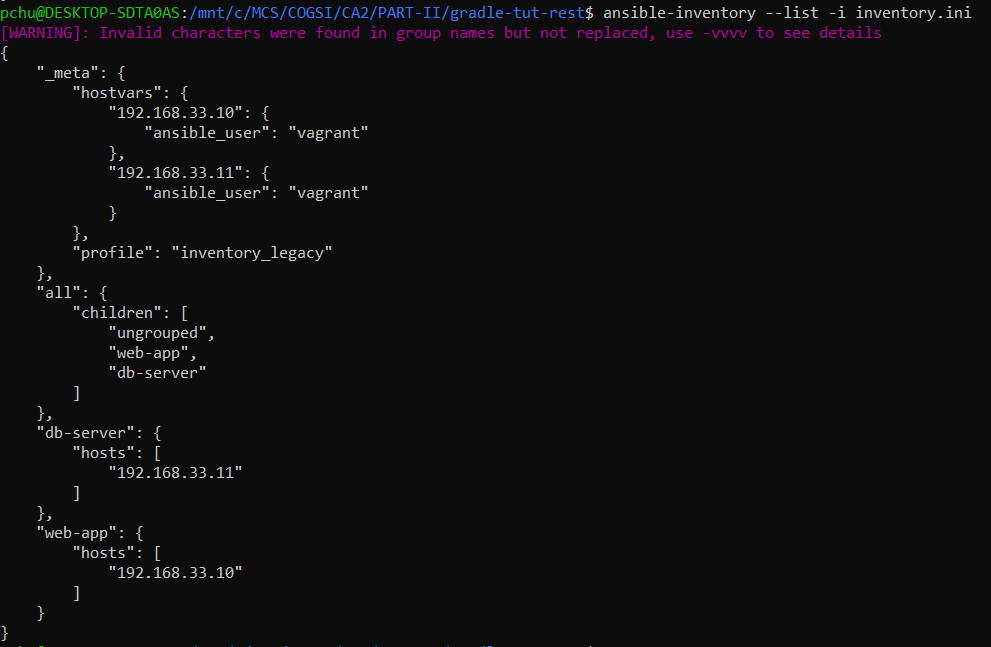
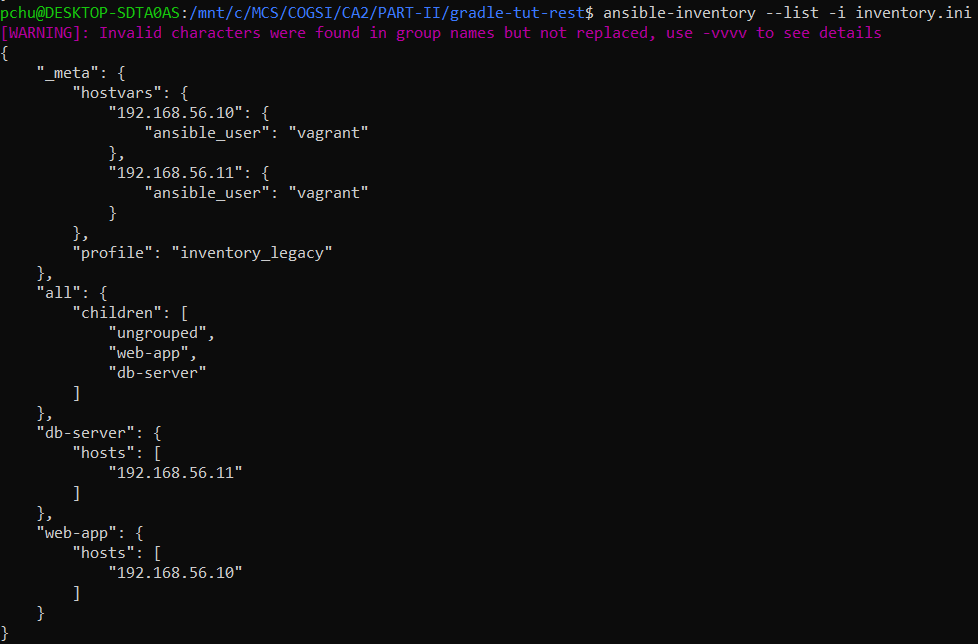
CA4: Enforce strong password policies; Verify inventory configuration; Manage groups and users; Missing health-check and README.md w/ alternative technologies

diff --git a/CA4/README.md b/CA4/README.md
@@ -1,39 +1,119 @@
 # CA4 - Configuration Management
-The goal for this class assignment is to install Ansible and provision both the VMs (`web-app` and `db-server`) that 
-were created during CA3. You should keep your playbooks idempotent.
+The goal of this assignment is to **install Ansible** and use it to **provision the two VMs** (`web-app` and 
+`db-server`) that were created in CA3. All playbooks should be **idempotent**, ensuring that running them multiple times 
+maintains the desired system state without unintended changes.
 
-You'll use Ansible to enforce complex password policies using PAM (with `libpam-pwquality`). To finish CA4, you'll 
-create groups and users using Ansible.
+In this assignment, you will:
+- Use Ansible to **enforce complex password policies** on the VMs using **PAM** with `libpam-pwquality`.
+- **Create user groups and accounts** on the VMs through Ansible.
+
+By completing this assignment, you will gain hands-on experience in using Ansible for system configuration, security 
+enforcement, and user management, while applying best practices for repeatable and maintainable infrastructure 
+automation.
 
 ## Install Ansible
 Ansible is an open-source automation tool designed for configuration management, application deployment, and IT 
-orchestration, enabling infrastructure as code. Ansible is an agentless, and it only needs to be installed on a single 
-host (referred to as the control node). From the control node, Ansible can manage an entire fleet of machines and other 
-devices (referred to as managed nodes) remotely with SSH, Powershell remoting, and numerous other transports, all from a 
-simple command-line interface with no databases or daemons required.
+orchestration. It enables **infrastructure as code**, allowing you to define and manage your IT environment 
+programmatically. 
 
-For your control node (the machine that runs Ansible), you can use nearly any UNIX-like machine with Python installed. 
-This includes Red Hat, Debian, Ubuntu, macOS, BSDs, and Windows under a Windows Subsystem for Linux (WSL) distribution. 
-Windows without WSL is not natively supported as a control node.
+Unlike much automation tool, Ansible is an agentless. You only need to install it on a single machine, called the 
+control node, which can manage multiple machines or devices (managed nodes) remotely using SSH, Powershell remoting, or 
+other supported protocols. Ansible operate from a simple command-line interface and does not require daemons or 
+databases.
 
-Ansible uses YAML-based playbooks to define automation workflows, making its configuration language human-readable and 
-easy to learn, even for those without extensive programming experience. These playbooks are idempotent, ensuring that 
-running them multiple times results in the same desired state without unintended side effects. The tool supports a wide 
-range of environments, including bare metal, virtual machines, cloud platforms, and hybrid infrastructures.
+### Control Node requirements
+Your control node can be any UNIX-like machine with Python installed, including:
+- Red Hat;
+- Debian;
+- Ubuntu;
+- macOS;
+- BSDs;
+- Windows under a Windows Subsystem for Linux (WSL) distribution
 
-You can install Ansible either by using `pipx` or using `pip`. We decided to use `pipx`, therefore, if you follow the 
-example below, you'll be able to successfully install Ansible.
+**NOTE**: Windows without WSL is not supported as a control node.
+
+### How Ansible Works
+Ansible uses YAML-based playbooks to define automation workflows. These playbooks are:
+- Human-readable and easy to learn, even for users without extensive programming experience.
+- Idempotent, meaning that running them multiple times ensures the system reaches the same desired state without 
+unintended changes.
+
+Ansible can manage a wide range of environments, including bare-metal servers, virtual machines, cloud platforms, and 
+hybrid infrastructures. 
+
+### Installing Ansible
+You can install Ansible using either `pip` or `pipx`. Using `pipx` is recommended as it **isolates Ansible and its 
+dependencies from your system Python environment**.
+
+Since we used `pipx`, bellow you'll find an example of the required steps to complete the installation:
 
 ```bash
+# Install pipx if not already installed
 sudo apt-get install pipx -y
+
+# Install Ansible with dependencies
 pipx install --include-deps ansible
+
+# Upgrade Ansible (optional)
 pipx upgrade --include-injected ansible
+
+# Enable shell completion for Ansible
 pipx inject --include-apps ansible argcomplete
 ```
 
-## Provision `web-app` and `db-server` VMs with Ansible
+After this, Ansible is ready to use, and you can start managing your infrastructure with playbooks.
 
-## Grant that `playbook.yaml` is idempotent
+## Provision `web-app` and `db-server` VMs with Ansible
+Before configuring your `playbook.yaml`, you need to **update the Vagrantfile from the previous class assignment** 
+(**CA3**). In the last CA, the VMs were provisioned using inline shell scripts. To switch to Ansible as the provisioner, 
+you can use the following approach:
+
+### Example Vagrantfile Changes
+Replace the old provisioning method entirely with Ansible for your `db-server` and `web-app` VMs, respectively. Take the 
+examples below as reference:
+
+```bash
+db.vm.provision "ansible" do |ansible|
+  ansible.playbook = "./playbook.yaml"
+  ansible.compatibility_mode = "2.0"
+end
+```
+
+```bash
+web.vm.provision "ansible" do |ansible|
+  ansible.playbook = "./playbook.yaml"
+  ansible.compatibility_mode = "2.0"
+end
+```
+
+### Explanation of Attributes
+- **ansible.playbook** – Specifies the playbook file that Ansible will use to provision the guest machines.
+- **ansible.compatibility_mode** – Ensures the Ansible provisioner generates an inventory file compatible with Ansible 
+2.0 and later versions.
+
+By making these changes, Vagrant will use Ansible to configure your VMs instead of the previous shell scripts, 
+streamlining your workflow and leveraging Ansible’s automation capabilities.
+
+## Ensuring your `playbook.yaml` is idempotent
+Your `playbook.yaml` should be **idempotent**. This means it can be executed **multiple times**, and each execution will 
+result in the same desired state as the initial run, without unintended changes or side effects.
+
+Most of Ansible’s core modules (like `user`, `group`, `apt`, `yum`, etc.) are **inherently idempotent**, automatically 
+checking the current system state before making changes.
+
+However, the `shell` and `command` modules **are not idempotent by default**, as they execute commands regardless of 
+the existing state. If you need to use these modules, you can ensure idempotency by adding conditions such as:
+- `creates` – Skip execution if a file or directory already exists.
+- `removes` – Skip execution if a file or directory has been removed.
+- `changed_when` – Explicitly control when a task should be considered “changed.”
+
+### Steps to Achieve an Idempotent Playbook
+
+1. Use core modules whenever possible.
+2. Check the current state before executing tasks with shell or command.
+3. Test your playbook multiple times on each VM to ensure it consistently reaches the same state.
+
+
 ### web-app
 #### first run
 ```bash
@@ -105,6 +185,7 @@ PLAY RECAP *********************************************************************
 web-app: ok=12   changed=3    unreachable=0    failed=0    skipped=3    rescued=0    
 ignored=0
 ```
+
 #### second run
 ```bash
 ==> web-app: Running provisioner: ansible...
@@ -239,6 +320,7 @@ PLAY RECAP *********************************************************************
 db-server: ok=12   changed=1    unreachable=0    failed=0    skipped=0    rescued=0    
 ignored=0
 ```
+
 #### second run
 ```bash
 ==> db-server: Running provisioner: file...
@@ -303,8 +385,22 @@ ignored=0
 ```
 
 ## Configure PAM to enforce a complex password policy within both VMs
+In this section, you will use **Ansible** to configure **Pluggable Authentication Modules** (**PAM**) to enforce a 
+strong password policy on both the `web-app` and `db-server` VMs. The goal is to improve system security by setting 
+requirements for password complexity, history, and login attempt restrictions.
 
-### Enforce a minimum length of 12 characters, and require at least three of the four-character classes: uppercase letters, lowercase letters, digits, and symbols
+
+### Enforce password complexity
+
+Passwords must meet the following criteria:
+
+- Minimum length: 12 characters
+- Must include at least three of four character classes: uppercase letters, lowercase letters, digits, and symbols
+- Reject passwords containing common dictionary words
+- Deny passwords that include the username or parts of it
+
+Take the task below as reference to configure libpam-pwquality:
+
 ```yaml
     - name: Configure libpam-pwquality
       lineinfile:
@@ -315,15 +411,11 @@ ignored=0
         state: present
 ```
 
-### Reject passwords containing common dictionary words and prevent reuse of the last five passwords
+### Prevent reuse of recent passwords
+To enforce password history and prevent users from reusing their last five passwords, use the configuration below as 
+example:
+
 ```yaml
-    - name: Configure libpam-pwquality
-      lineinfile:
-        path: "/etc/pam.d/common-password"
-        regexp: "pam_pwquality.so"
-        line: "password required pam_pwquality.so minlen=12 lcredit=-1 ucredit=-1 dcredit=-1 ocredit=-1 minclass=3 
-        dictpath=/usr/share/dict/words usercheck=1 usersubstr=4"
-        state: present
     - name: Configure pam_pwhistory
       lineinfile:
         path: "/etc/pam.d/common-password"
@@ -331,8 +423,12 @@ ignored=0
         line: "pam_pwhistory.so retry=5 remember=5 use_authtok"
         state: present
 ```
+`remember=5` ensures the **last five passwords cannot be reused**, and `retry=5` allows users **five attempts before 
+failing**.
 
-### Lock the account for 10 minutes after five consecutive failed login attempts
+### Lock the account after failed login attempts
+To protect against brute-force attacks, lock accounts after **five consecutive failed login attempts** for 10 minutes:
+
 ```yaml
     - name: Configure pam_faillock
       lineinfile:
@@ -341,8 +437,14 @@ ignored=0
         line: "pam_faillock.so audit deny=5 unlock_time=600"
         state: present
 ```
+`deny=5` specifies the **number of allowed failed attempts**, and `unlock_time=600` sets the **lockout duration to 
+10 minutes** (**600 seconds**).
 
-### Deny the use of passwords that contain the username or parts of it
+### Deny passwords containing the username or parts of it
+To prevent users from choosing weak passwords that include their username or parts of it, you can configure PAM’s 
+`libpam-pwquality` module to reject such passwords automatically. This enhances protection against predictable password 
+choices.
+
 ```yaml
     - name: Configure libpam-pwquality
       lineinfile:
@@ -352,18 +454,55 @@ ignored=0
         dictpath=/usr/share/dict/words usercheck=1 usersubstr=4"
         state: present
 ```
+The parameters `usercheck=1` and `usersubstr=4` instruct PAM to check the password against the username and reject 
+passwords containing four or more consecutive characters from it.
 
-## List of hosts known to Ansible
+### Notes for Idempotency
+
+- Using `lineinfile` ensures that tasks are **idempotent**, modifying the configuration only if the desired line is 
+missing or different.
+- Avoid duplicating tasks - each `regexp` ensures that the specific line is managed correctly.
+
+## Verify Ansible inventory with `ansible-inventory`
+Ansible uses an **inventory file** to define which hosts it manages and how they are grouped. This can be either a 
+**static inventory file** (e.g., `inventory.ini`), or the **Vagrant auto-generated inventory file**, which Vagrant 
+provides automatically when using the Ansible provisioner.
+
+For this assignment, we decided to use a static inventory file named `inventory.ini`. Take the configuration below as an
+example:
+
 ```bash
 [web-app]
-192.168.33.10 ansible_user=vagrant
+192.168.56.10 ansible_user=vagrant
 
 [db-server]
-192.168.33.11 ansible_user=vagrant
+192.168.56.11 ansible_user=vagrant
 ```
+
+This file defines two groups - `web-app` and `db-server` - each containing one VM with its corresponding IP address 
+(**192.168.56.10** and **192.168.56.11**, respectively) and the SSH user.
+
+### Verify inventory configuration
+To verify that Ansible recognizes the defined hosts, the command `ansible-inventory --list -i inventory.ini` was 
+executed. This command outputs the parsed structure of your inventory in JSON format, confirming that Ansible correctly 
+detects both the `web-app` and `db-server` hosts.
+
+After executing the command mentioned above, your output should resemble the reference below.
+
 <img src="Images/04_01.PNG" alt="Ansible hosts list"/>
 
 ## Create groups and users inside both of `web-app` and `db-server` VMs using Ansible
+
+### Create group `developers`
+
+```yaml
+    - name: Ensure group 'developers' exists
+      group:
+        name: developers
+        state: present
+```
+
+**NEVER INCLUDE PASSWORD HASHES OR OTHER SECRETS DIRECTLY IN PLAYBOOKS OR VERSION CONTROL**
 
 ## Add a Health-Check to `playbook.yaml` to verify that both services are running correctly
 
